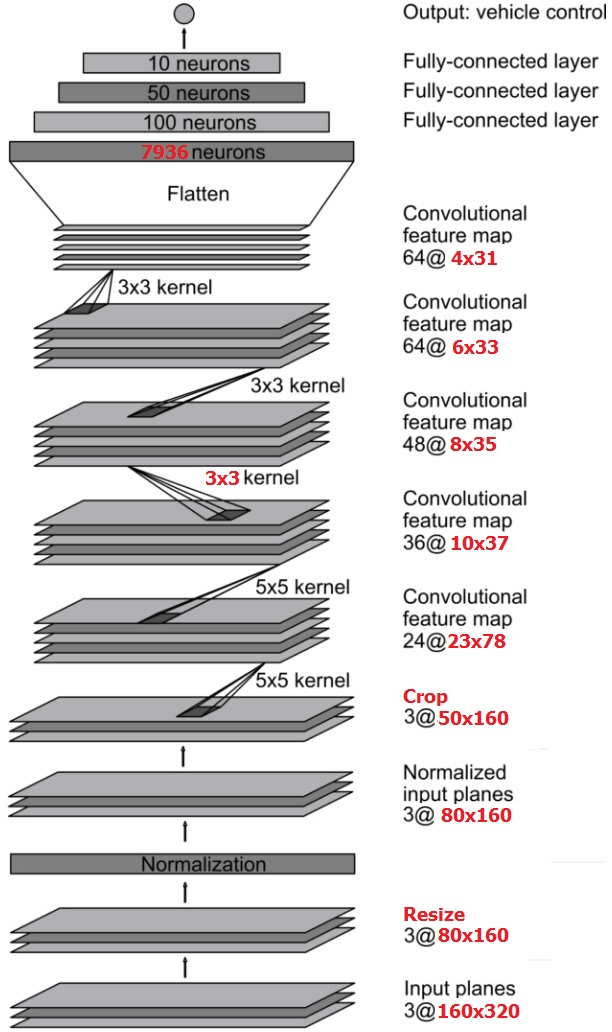
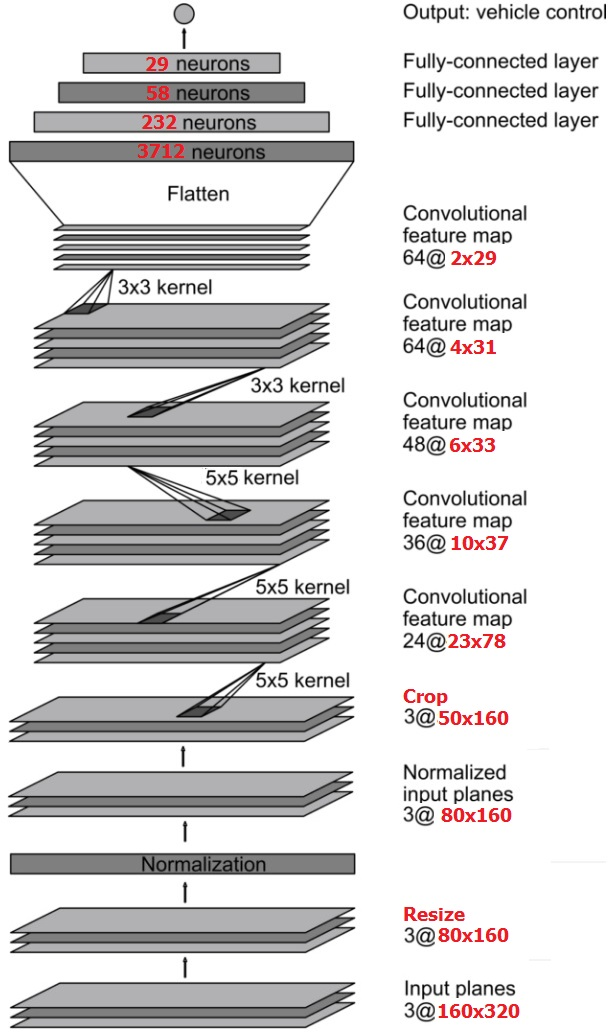
CHanged model to reduce flatten layer

diff --git a/model.py b/model.py
@@ -20,14 +20,14 @@ LOG_PATH = './training.txt'
 INPUT_COLS = 320
 INPUT_ROWS = 160
 INPUT_CHANNELS = 3
-SIDE_IMAGE_OFFSET = 0.88
+SIDE_IMAGE_OFFSET = 0.9
 STEERING_CUTOFF = 0.3
 
 #Training constants
 BATCH_SIZE = 64
 LEARNING_RATE = 0.001
 DECAY_RATE = 1.0
-EPOCHS = 4
+EPOCHS = 3
 
 #Helper functions
 def print_training(history):	#Print loss by batch after training for reference
@@ -192,18 +192,18 @@ model.add(Lambda(lambda x: x / 127.5 - 1.))							#Normalize
 model.add(Cropping2D(cropping=((25, 5), (0, 0))))					#Crop->50x160x3
 model.add(Conv2D(24, (5, 5), strides=(2, 2), activation="relu"))	#Conv2D->23x78x24
 model.add(SpatialDropout2D(0.2))									#2D-Dropout
-model.add(Conv2D(36, (5, 5), strides=(2, 2), activation="relu"))	#Conv2D->10x370x36
+model.add(Conv2D(36, (5, 5), strides=(2, 2), activation="relu"))	#Conv2D->10x37x36
 model.add(SpatialDropout2D(0.2))									#2D-Dropout
-model.add(Conv2D(48, (3, 3), strides=(1, 1), activation="relu"))	#Conv2D->8x35x48
+model.add(Conv2D(48, (5, 5), strides=(1, 1), activation="relu"))	#Conv2D->6x33x48
 model.add(SpatialDropout2D(0.2))									#2D-Dropout
-model.add(Conv2D(64, (3, 3), strides=(1, 1), activation="relu"))	#Conv2D->6x33x64
 model.add(Conv2D(64, (3, 3), strides=(1, 1), activation="relu"))	#Conv2D->4x31x64
-model.add(Flatten())												#Flatten->7936x1
-model.add(Dense(100))												#Fully connected->100x1
+model.add(Conv2D(64, (3, 3), strides=(1, 1), activation="relu"))	#Conv2D->2x29x64
+model.add(Flatten())												#Flatten->3712x1
+model.add(Dense(232))												#Fully connected->232x1
 model.add(Dropout(0.5))												#Dropout
-model.add(Dense(50))												#Fully connected->50x1
+model.add(Dense(58))												#Fully connected->58x1
 model.add(Dropout(0.5))												#Dropout
-model.add(Dense(10))												#Fully connected->10x1
+model.add(Dense(29))												#Fully connected->29x1
 model.add(Dense(1))													#Output
 
 #Train

diff --git a/writeup/README.md b/writeup/README.md
@@ -148,19 +148,19 @@ My final model:
 | Convolution	     	| 2x2 stride, 5x5 filter, valid, outputs 10x37x36 	|
 | RELU					| 													|
 | SpatialDropout2D 		| 80% keep probability 								|
-| Convolution	     	| 1x1 stride, 3x3 filter, valid, outputs 8x35x48 	|
+| Convolution	     	| 2x2 stride, 3x3 filter, valid, outputs 6x33x48 	|
 | RELU					| 													|
 | SpatialDropout2D 		| 80% keep probability 								|
-| Convolution	     	| 1x1 stride, 3x3 filter, valid, outputs 6x33x64 	|
-| RELU					| 													|
 | Convolution	     	| 1x1 stride, 3x3 filter, valid, outputs 4x31x64 	|
 | RELU					| 													|
-| Flatten				| Outputs 7936x1									|
-| Fully connected 		| Outputs 100x1 									|
+| Convolution	     	| 1x1 stride, 3x3 filter, valid, outputs 2x29x64 	|
+| RELU					| 													|
+| Flatten				| Outputs 3712x1									|
+| Fully connected 		| Outputs 232x1 									|
 | Dropout				| 50% keep probability 								|
-| Fully connected 		| Outputs 50x1 										|
+| Fully connected 		| Outputs 58x1 										|
 | Dropout				| 50% keep probability 								|
-| Fully connected 		| Outputs 10x1 										|
+| Fully connected 		| Outputs 29x1 										|
 | Fully connected 		| Outputs 1 (steering position normalized) 			|
 
 ![Model][image9]
